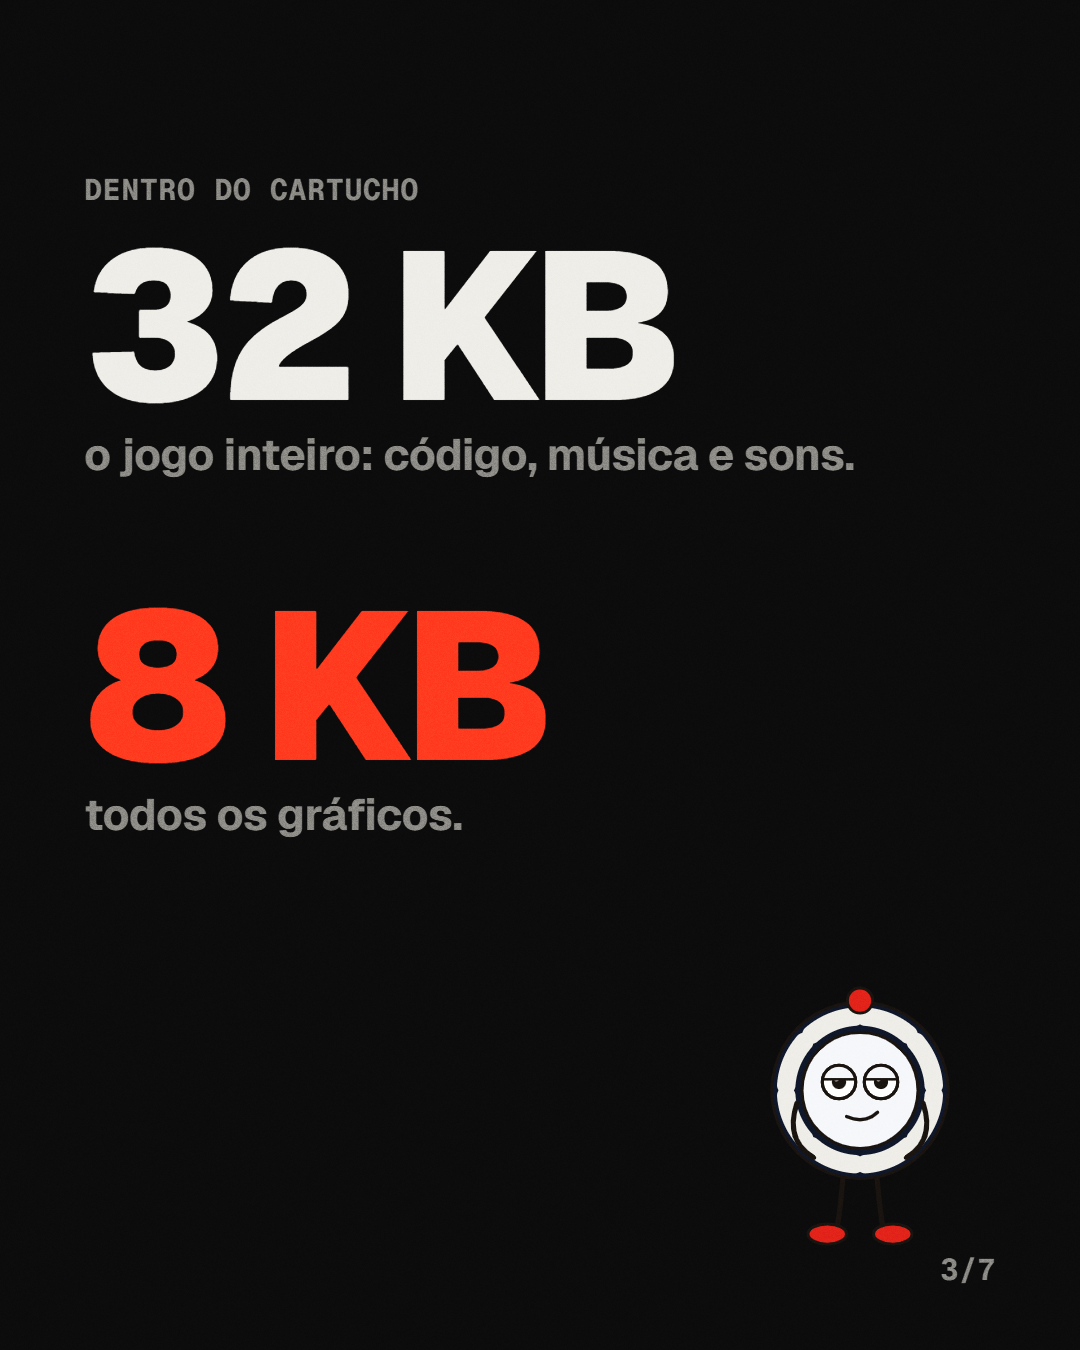
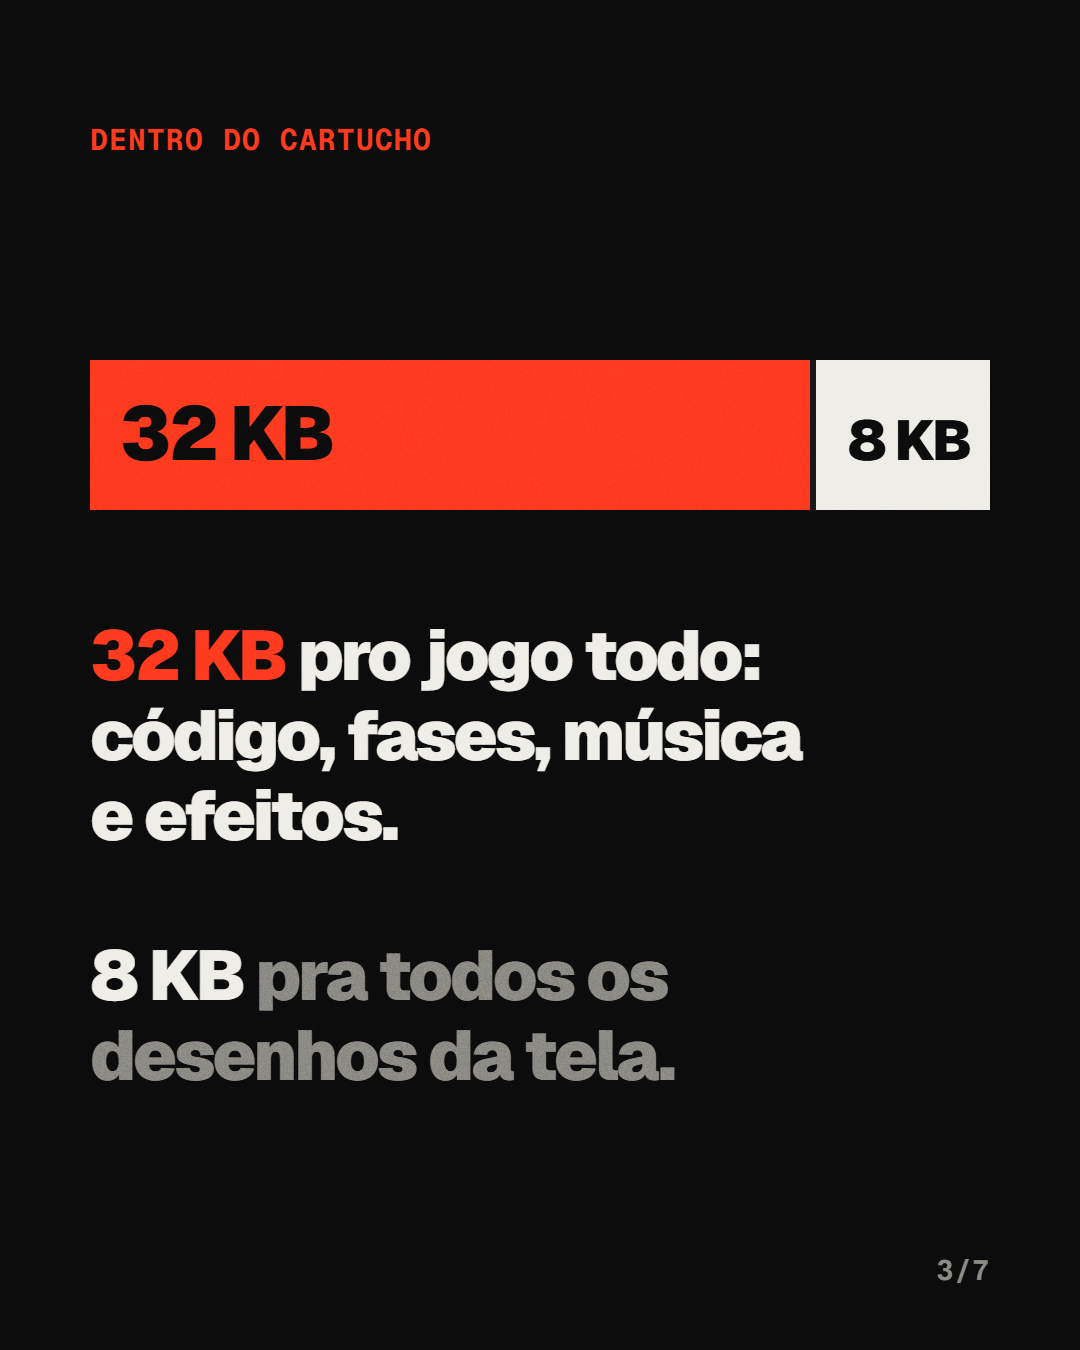
Carrossel do Mario no formato novo (historia com arco); video do fliperama vira slide 6

diff --git a/Conteudo_Bit/Producao/carrossel_mario_v2.html b/Conteudo_Bit/Producao/carrossel_mario_v2.html
@@ -1,0 +1,68 @@
+<!doctype html><html lang="pt-BR"><head><meta charset="utf-8"><title>carrossel mario v2</title>
+<script src="brand.js"></script><script src="bit_art.js"></script>
+<script>document.write(`<link rel="stylesheet" href="${BRAND.fontsCSS}">`)</script>
+<style>body{margin:0;background:#222;display:flex;flex-wrap:wrap;gap:12px;padding:12px}img{width:270px}</style></head><body>
+<script>
+// Carrossel do Mario no formato novo: história com arco (gancho → missão → limite → trapaça → contraste → sentido), 1080×1350.
+// Fatos conferidos: 40 KB = 32 KB PRG + 8 KB CHR (Computer History Museum/touchit.sk); nuvem e arbusto com o mesmo desenho (WhatCulture);
+// RDR2 com 150 GB no PC (TechRadar). O slide 6 continua sendo o vídeo 3D do Will Station (Sab10_Carrossel_6.mp4).
+const q = new URLSearchParams(location.search), W = 1080, H = 1350, DIR = 'semana-2026-10-05', M = 90;
+const P = BRAND.paper, A = BRAND.accent, MU = BRAND.mute, OK = '#3DDC97';
+function t(g, s, x, y, size, col, o = {}) { g.font = `${o.w || 900} ${size}px ${o.mono ? '"Geist Mono"' : 'Geist'}`; g.letterSpacing = o.mono ? '1px' : `${-0.04 * size}px`; g.textAlign = o.align || 'left'; g.fillStyle = col; g.fillText(s, x, y); g.textAlign = 'left'; }
+function linhas(g, parts, x, y, size, lh) { g.font = `900 ${size}px Geist`; g.letterSpacing = `${-0.04 * size}px`; let cx = x, cy = y;
+  for (const [s, col] of parts) s.split(/(\n)/).forEach(seg => { if (seg === '\n') { cx = x; cy += lh; return; } g.fillStyle = col; g.fillText(seg, cx, cy); cx += g.measureText(seg).width; }); }
+function rotulo(g, s, y = 150, col = A) { t(g, s, M, y, 30, col, { mono: true, w: 700 }); }
+function pagina(g, i) { t(g, `${i}/7`, W - M, H - 70, 28, MU, { mono: true, w: 700, align: 'right' }); }
+// nuvem desenhada em pixel (desenho próprio, esquemático): 1 = contorno, 2 = preenchimento
+const NUVEM = ['....1111........','...122221.111...','..1222222122221.','.12222222222221.','1222222222222221','1222222222222221','.12222222222221.','..111111111111..'];
+function pixel(g, art, x, y, s, fill, line) { art.forEach((row, j) => [...row].forEach((c, i) => { if (c === '.') return; g.fillStyle = c === '1' ? line : fill; g.fillRect(x + i * s, y + j * s, s, s); })); }
+let bitP, bitF;
+const SLIDES = [
+  g => { // 1. gancho: a própria imagem pesa mais que o jogo
+    rotulo(g, 'SUPER MARIO BROS. · 1985');
+    linhas(g, [['Esse jogo inteiro\ncabe em menos\nespaço que ', P], ['esta\nimagem.', A]], M, 380, 118, 122);
+    t(g, 'ARRASTA →', M, H - 160, 34, MU, { mono: true, w: 700 }); pagina(g, 1);
+  },
+  g => { // 2. a missão
+    rotulo(g, 'A MISSÃO');
+    linhas(g, [['Um mundo inteiro.\nOito mundos, na\nverdade. Com música.\n\nE um limite de\n', P], ['40 KB.', A]], M, 330, 84, 94);
+    t(g, 'o tamanho de um e-mail sem anexo.', M, 1080, 40, MU, { mono: true, w: 500 }); pagina(g, 2);
+  },
+  g => { // 3. o limite, em barras
+    rotulo(g, 'DENTRO DO CARTUCHO');
+    const x = M, w = W - 2 * M, y = 360;
+    g.fillStyle = BRAND.ink2; g.fillRect(x, y, w, 150); g.fillStyle = A; g.fillRect(x, y, w * 0.8, 150); g.fillStyle = P; g.fillRect(x + w * 0.8 + 6, y, w * 0.2 - 6, 150);
+    t(g, '32 KB', x + 30, y + 100, 76, BRAND.ink); t(g, '8 KB', x + w - 20, y + 100, 56, BRAND.ink, { align: 'right' });
+    linhas(g, [['32 KB', A], [' pro jogo todo:\ncódigo, fases, música\ne efeitos.\n\n', P], ['8 KB', P], [' pra todos os\ndesenhos da tela.', MU]], M, 680, 70, 80); pagina(g, 3);
+  },
+  g => { // 4. a trapaça
+    rotulo(g, 'NÃO CABIA. ENTÃO ELES TRAPACEARAM.');
+    pixel(g, NUVEM, 150, 300, 22, P, MU); t(g, 'nuvem', 150, 520, 34, MU, { mono: true, w: 700 });
+    pixel(g, NUVEM, 600, 300, 22, OK, MU); t(g, 'arbusto', 600, 520, 34, MU, { mono: true, w: 700 });
+    linhas(g, [['É o ', P], ['mesmo desenho.\n', A], ['Só muda a cor.', P]], M, 760, 92, 100);
+    t(g, 'reaproveitar era o único jeito de caber.', M, 1080, 34, MU, { mono: true, w: 500 }); pagina(g, 4);
+  },
+  g => { // 5. o contraste com hoje
+    rotulo(g, 'E HOJE?');
+    linhas(g, [['Red Dead\nRedemption 2\npede ', P], ['150 GB.', A]], M, 330, 112, 118);
+    linhas(g, [['Dá pra guardar o Mario\n', P], ['quase 4 milhões', A], [' de vezes\nnesse espaço.', P]], M, 830, 64, 74); pagina(g, 5);
+  },
+  null, // 6. vídeo 3D do Will Station (arquivo já pronto)
+  g => { // 7. o sentido + o Bit
+    rotulo(g, 'O QUE FICA');
+    linhas(g, [['Limite não mata\na criatividade.\n', P], ['Às vezes é ele\nque cria.', A]], M, 330, 100, 108);
+    BitArt.draw(g, bitP, 820, 1230, 470);
+    t(g, '"e a gente reclama que o', M, 1000, 36, MU, { mono: true, w: 500 }); t(g, 'celular tá sem espaço."', M, 1050, 36, MU, { mono: true, w: 500 }); t(g, 'BIT', M, 1110, 30, A, { mono: true, w: 700 }); pagina(g, 7);
+  },
+];
+(async () => {
+  await loadBrandFonts(); bitP = await BitArt.load('/Marca/bit/bit_pensando.png');
+  for (let i = 0; i < SLIDES.length; i++) { if (!SLIDES[i]) continue;
+    const c = document.createElement('canvas'); c.width = W; c.height = H; const g = c.getContext('2d'); g.textBaseline = 'alphabetic';
+    g.fillStyle = BRAND.ink; g.fillRect(0, 0, W, H); SLIDES[i](g); grain(g, W, H, 0.07);
+    const im = document.createElement('img'); im.src = c.toDataURL(); document.body.append(im);
+    if (q.has('save')) await fetch(`/save?dir=${DIR}&name=Sab10_Carrossel_${i + 1}.png`, { method: 'POST', body: await new Promise(r => c.toBlob(r, 'image/png')) });
+  }
+  document.title = 'ready';
+})().catch(e => document.title = 'ERROR ' + e.message);
+</script></body></html>

diff --git a/Conteudo_Bit/Producao/story_video.html b/Conteudo_Bit/Producao/story_video.html
@@ -1,23 +1,23 @@
-<!doctype html><html lang="pt-BR"><head><meta charset="utf-8"><title>story video</title>
+<!doctype html><html lang="pt-BR"><head><meta charset="utf-8"><title>story video</title>
 <script src="brand.js"></script><script src="bit_art.js"></script>
 <script src="https://cdn.jsdelivr.net/npm/mp4-muxer@5.1.3/build/mp4-muxer.js"></script>
 <script>document.write(`<link rel="stylesheet" href="${BRAND.fontsCSS}">`)</script>
 <style>body{margin:0;background:#222;padding:16px}canvas{width:360px}</style></head><body>
 <script>
-// Story de chamada em vídeo (1080×1920): o próprio post rodando num quadro, com o Bit do projeto ao lado.
-// ?s=qua|qui|sab escolhe o story; ?save=1 renderiza o mp4 e grava na pasta da semana; ?t=7 mostra só o quadro de 7 s.
+// Story de chamada em vÃdeo (1080Ã—1920): o prÃ³prio post rodando num quadro, com o Bit do projeto ao lado.
+// ?s=qua|qui|sab escolhe o story; ?save=1 renderiza o mp4 e grava na pasta da semana; ?t=7 mostra sÃ³ o quadro de 7 s.
 const q = new URLSearchParams(location.search), W = 1080, H = 1920, FPS = 30, M = 96, DIR = 'semana-2026-10-05';
 const STORIES = {
-  // hook = só o gancho do post roda; depois o quadro congela com "continua no perfil" (story é teaser, não o post inteiro)
-  // story agendado não tem link pro post: vai ao ar ANTES (12h) como "hoje às 19h"; às 19h o post é compartilhado no story pelo app (aí sim tocável)
-  qua: { out: 'Qua07_Story_GMS.mp4', src: '/Videos/Publicar/GMS_Reel_PT_30s.mp4', dur: 6.5, hook: 3.5, cut: ['hoje', 'às 19h.'], dark: true, bit: 'bit_pensando', ring: true,
-    label: 'HOJE 19H · GMS', head: [['A fábrica só via o\nturno no ', 'fg'], ['dia seguinte.', 'acc']], foot: 'REEL NOVO HOJE ÀS 19H' },
-  sab: { out: 'Sab10_Story_Mario.mp4', src: `/Semanal/${DIR}/Sab10_Carrossel_5.mp4`, dur: 8, loop: 8, dark: true, bit: 'bit_feliz',
-    label: 'HOJE 11H · GAMES', head: [['Quanto espaço o Super\nMario ocupava? ', 'fg'], ['?? KB', 'acc']], foot: 'A RESPOSTA SAI HOJE ÀS 11H' },
+  // hook = sÃ³ o gancho do post roda; depois o quadro congela com "continua no perfil" (story Ã© teaser, nÃ£o o post inteiro)
+  // story agendado nÃ£o tem link pro post: vai ao ar ANTES (12h) como "hoje Ã s 19h"; Ã s 19h o post Ã© compartilhado no story pelo app (aÃ sim tocÃ¡vel)
+  qua: { out: 'Qua07_Story_GMS.mp4', src: '/Videos/Publicar/GMS_Reel_PT_30s.mp4', dur: 6.5, hook: 3.5, cut: ['hoje', 'Ã s 19h.'], dark: true, bit: 'bit_pensando', ring: true,
+    label: 'HOJE 19H Â· GMS', head: [['A fÃ¡brica sÃ³ via o\nturno no ', 'fg'], ['dia seguinte.', 'acc']], foot: 'REEL NOVO HOJE Ã€S 19H' },
+  sab: { out: 'Sab10_Story_Mario.mp4', src: `/Semanal/${DIR}/Sab10_Carrossel_6.mp4`, dur: 8, loop: 8, dark: true, bit: 'bit_feliz',
+    label: 'HOJE 11H Â· GAMES', head: [['Quanto espaÃ§o o Super\nMario ocupava? ', 'fg'], ['?? KB', 'acc']], foot: 'A RESPOSTA SAI HOJE Ã€S 11H' },
 };
 const C = STORIES[q.get('s') || 'qua'];
 const col = k => k === 'acc' ? BRAND.accent : C.dark ? BRAND.paper : BRAND.ink;
-function seek(v, t) { // quadro exato: espera o seeked e o quadro novo chegar no vídeo (com folga, pra não travar)
+function seek(v, t) { // quadro exato: espera o seeked e o quadro novo chegar no vÃdeo (com folga, pra nÃ£o travar)
   return new Promise(res => { const done = () => { v.removeEventListener('seeked', on); res(); }; const on = () => v.requestVideoFrameCallback ? (v.requestVideoFrameCallback(done), setTimeout(done, 250)) : done(); v.addEventListener('seeked', on); v.currentTime = t; });
 }
 function frame(g, t, v, bit) {
@@ -44,11 +44,11 @@ function frame(g, t, v, bit) {
   await loadBrandFonts();
   const bit = await BitArt.load(`/Marca/bit/${C.bit}.png`);
   const v = document.createElement('video'); v.src = C.src; v.muted = true; v.playsInline = true; v.preload = 'auto';
-  await new Promise((r, j) => { v.onloadeddata = r; v.onerror = () => j(new Error('vídeo não carregou')); });
+  await new Promise((r, j) => { v.onloadeddata = r; v.onerror = () => j(new Error('vÃdeo nÃ£o carregou')); });
   const cv = document.createElement('canvas'); cv.width = W; cv.height = H; document.body.append(cv); const g = cv.getContext('2d');
   const at = t => C.loop ? t % C.loop : C.hook ? Math.min(t, C.hook) : t;
   if (!q.has('save')) { const t = +(q.get('t') || 3); await seek(v, at(t)); frame(g, t, v, bit); document.title = 'ready'; return; }
-  // áudio: o som do próprio post, com fade no fim
+  // Ã¡udio: o som do prÃ³prio post, com fade no fim
   const SR = 48000, len = SR * C.dur, src = await new OfflineAudioContext(2, SR, SR).decodeAudioData(await (await fetch(C.src)).arrayBuffer());
   const L = new Float32Array(len), R = new Float32Array(len), s0 = src.getChannelData(0), s1 = src.numberOfChannels > 1 ? src.getChannelData(1) : s0, k = src.sampleRate / SR;
   for (let i = 0; i < len; i++) { const tt = at(i / SR), j = Math.min(s0.length - 1, Math.floor(tt * SR * k)), fade = Math.min(1, (len - i) / (SR * 0.6), i / (SR * 0.05), C.hook ? Math.max(0, 1 - (i / SR - C.hook) / 0.8) : 1); L[i] = s0[j] * fade; R[i] = s1[j] * fade; }
